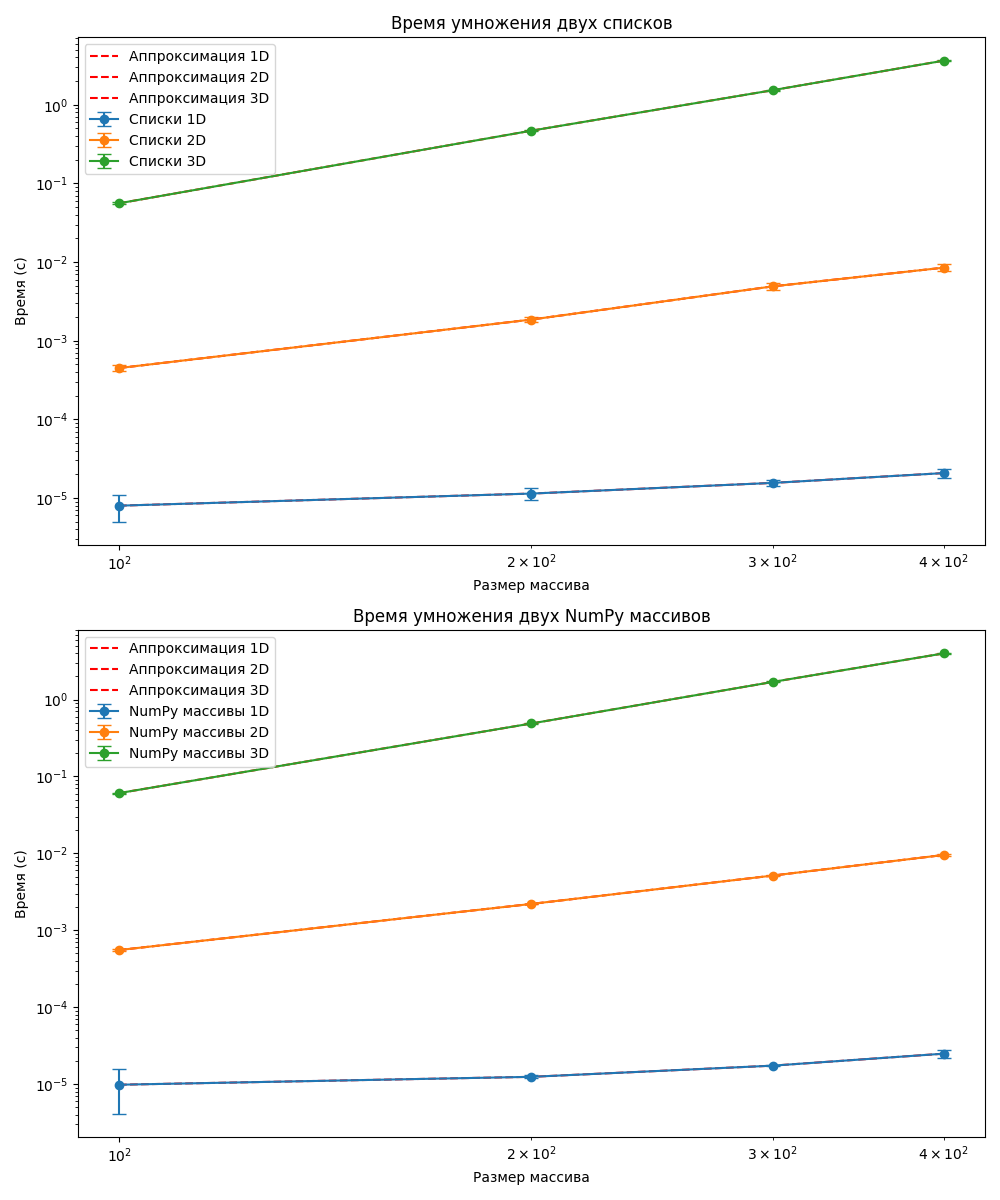
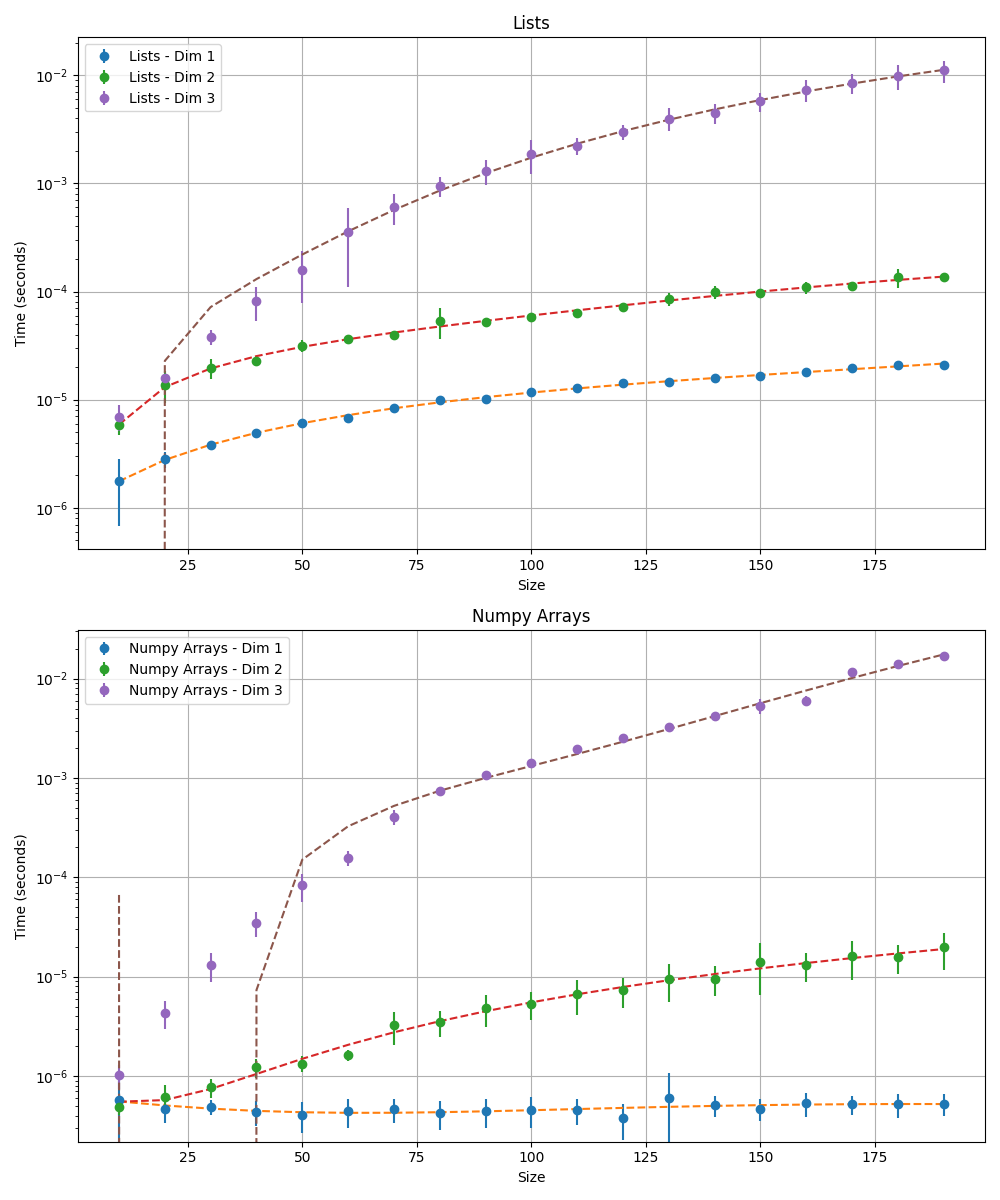
Изменил графики: название осей и шкалы. Поменял степень аппроксимации.

diff --git a/computation_test.py b/computation_test.py
@@ -2,85 +2,77 @@ import numpy as np
 import matplotlib.pyplot as plt
 import time
 
-def time_list_multiply(shape, trials=5):
+
+def measure_time(operation, size, dimensions, iterations=30):
     times = []
-    for _ in range(trials):
-        list_a = list(np.random.rand(*shape))
-        list_b = list(np.random.rand(*shape))
+    for _ in range(iterations):
+        if dimensions == 1:
+            a = np.random.rand(size)
+            b = np.random.rand(size)
+        elif dimensions == 2:
+            a = np.random.rand(size, size)
+            b = np.random.rand(size, size)
+        elif dimensions == 3:
+            a = np.random.rand(size, size, size)
+            b = np.random.rand(size, size, size)
+
         start_time = time.time()
-        result = [a * b for a, b in zip(list_a, list_b)]
-        end_time = time.time()
-        times.append(end_time - start_time)
+        operation(a, b)
+        times.append(time.time() - start_time)
+
     return np.mean(times), np.std(times)
 
-def time_numpy_multiply(shape, trials=5):
-    times = []
-    for _ in range(trials):
-        arr_a = np.random.rand(*shape)
-        arr_b = np.random.rand(*shape)
-        start_time = time.time()
-        result = arr_a * arr_b
-        end_time = time.time()
-        times.append(end_time - start_time)
-    return np.mean(times), np.std(times)
 
-sizes = [10, 100, 1000, 5000]
-shapes = [
-    (size,) for size in sizes  # одномерные
-] + [
-    (size, size) for size in sizes  # двумерные
-] + [
-    (size, size, size) for size in sizes  # трехмерные
-]
+sizes = range(10,200,10)
+dimensions = [1, 2, 3]
 
-list_times_mean = []
-list_times_std = []
-for shape in shapes:
-    mean, std = time_list_multiply(shape)
-    list_times_mean.append(mean)
-    list_times_std.append(std)
+list_times = {dim: [] for dim in dimensions}
+list_errors = {dim: [] for dim in dimensions}
+array_times = {dim: [] for dim in dimensions}
+array_errors = {dim: [] for dim in dimensions}
 
-numpy_times_mean = []
-numpy_times_std = []
-for shape in shapes:
-    mean, std = time_numpy_multiply(shape)
-    numpy_times_mean.append(mean)
-    numpy_times_std.append(std)
+for dim in dimensions:
+    for size in sizes:
+        mean_time, std_time = measure_time(lambda a, b: [a[i]*b[i] for i in range(len(a))], size, dim)
+        list_times[dim].append(mean_time)
+        list_errors[dim].append(std_time)
+
+for dim in dimensions:
+    for size in sizes:
+        mean_time, std_time = measure_time(np.multiply, size, dim)
+        array_times[dim].append(mean_time)
+        array_errors[dim].append(std_time)
 
 
-from numpy.polynomial.polynomial import Polynomial
-
-def fit_polynomial(x, y, degree=3):
-    p = Polynomial.fit(x, y, degree)
-    return p
-
-x = np.array(sizes * 3)  # Точки для оси x (размеры)
-y_list = np.array(list_times_mean)  # Время для списков
-y_numpy = np.array(numpy_times_mean)  # Время для numpy массивов
-
-p_list = fit_polynomial(x, y_list)
-p_numpy = fit_polynomial(x, y_numpy)
-
-# Построение графиков
 plt.figure(figsize=(10, 12))
 
-# График 1: Время для списков
 plt.subplot(2, 1, 1)
-plt.errorbar(sizes * 3, list_times_mean, yerr=list_times_std, fmt='o', label='Списки')
-plt.plot(sizes * 3, p_list(x), label='Аппроксимация (списки)', linestyle='--')
-plt.xlabel('Размер (в числе элементов)')
-plt.ylabel('Время (сек)')
-plt.legend()
-plt.title('Время перемножения двух списков')
+for dim in dimensions:
+    plt.errorbar(sizes, list_times[dim], yerr=list_errors[dim], label=f'Lists - Dim {dim}', fmt='o')
+    coeffs = np.polyfit(sizes, list_times[dim], deg=3)
+    poly_appr = np.poly1d(coeffs)
+    plt.plot(sizes, poly_appr(sizes), linestyle='--')
 
-# График 2: Время для numpy массивов
-plt.subplot(2, 1, 2)
-plt.errorbar(sizes * 3, numpy_times_mean, yerr=numpy_times_std, fmt='o', label='Numpy массивы')
-plt.plot(sizes * 3, p_numpy(x), label='Аппроксимация (numpy)', linestyle='--')
-plt.xlabel('Размер (в числе элементов)')
-plt.ylabel('Время (сек)')
+plt.title('Lists')
+plt.xlabel('Size')
+plt.ylabel('Time (seconds)')
+plt.yscale('log')
 plt.legend()
-plt.title('Время перемножения двух numpy массивов')
+plt.grid()
+
+plt.subplot(2, 1, 2)
+for dim in dimensions:
+    plt.errorbar(sizes, array_times[dim], yerr=array_errors[dim], label=f'Numpy Arrays - Dim {dim}', fmt='o')
+    coeffs = np.polyfit(sizes, array_times[dim], deg=3)
+    poly_appr = np.poly1d(coeffs)
+    plt.plot(sizes, poly_appr(sizes), linestyle='--')
+
+plt.title('Numpy Arrays')
+plt.xlabel('Size')
+plt.ylabel('Time (seconds)')
+plt.yscale('log')
+plt.legend()
+plt.grid()
 
 plt.tight_layout()
 plt.savefig('vector_calculation_speed.png')
